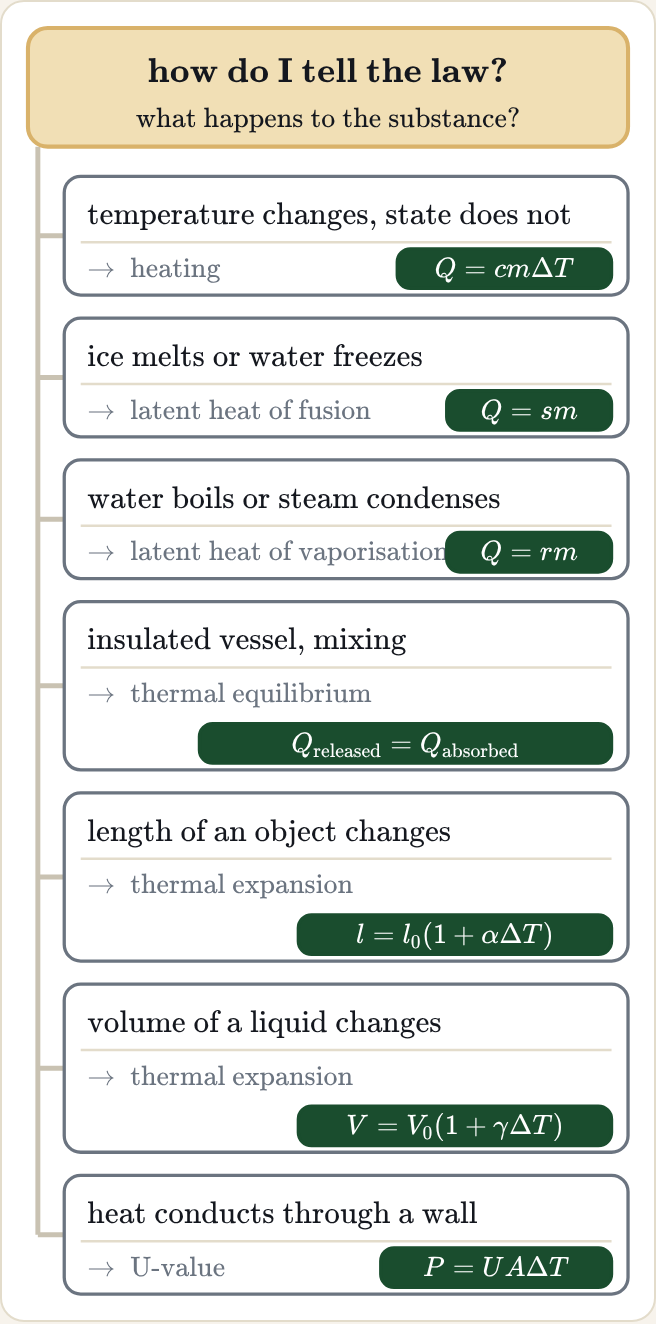
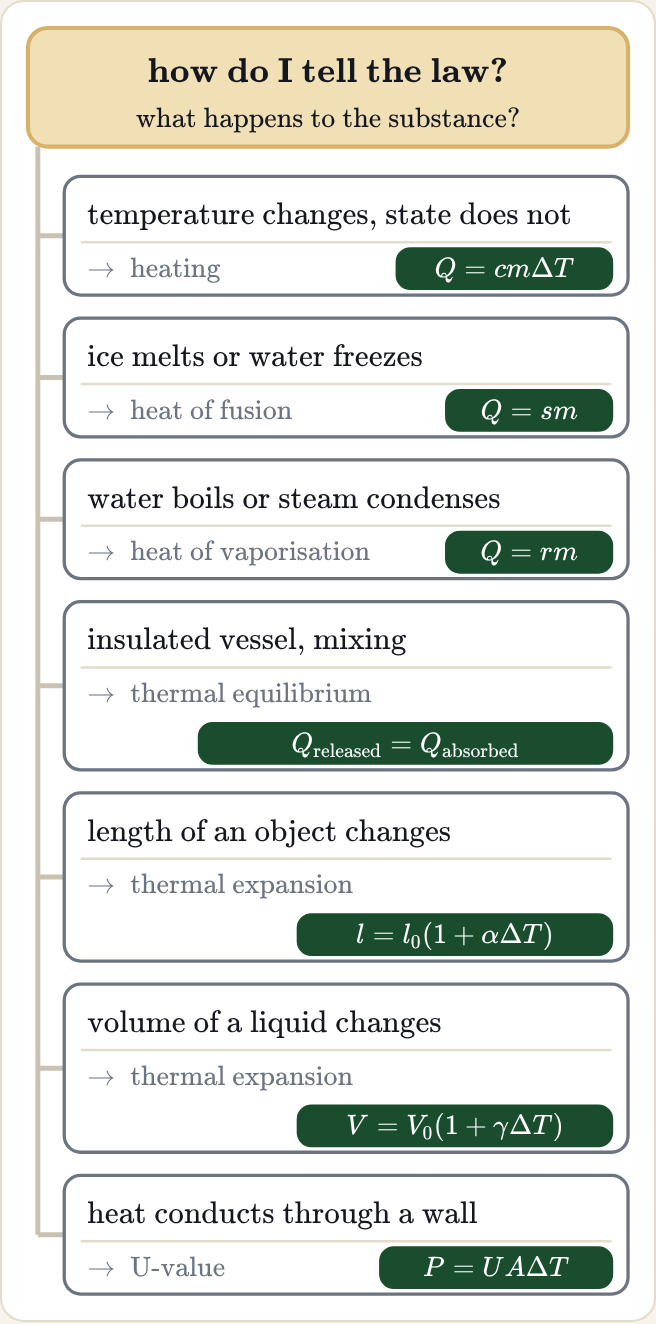
FY9 tunnistuskaaviot: erä A valmis (aallot, energia, kaasut, lampo), C kesken
Claude-Session: https://claude.ai/code/session_018S3zFxhGjNZ7QGsyLUYTSo

Changed region(s): [[0.2134, 0.4026, 0.6707, 0.4335], [0.2134, 0.2787, 0.4268, 0.3406], [0.4573, 0.3097, 0.5488, 0.3406]]

diff --git a/fysiikkalabra/content/en/units/fy9-lampo/unit.md b/fysiikkalabra/content/en/units/fy9-lampo/unit.md
@@ -112,7 +112,7 @@ In thermal physics three concepts must be kept apart. **Temperature** describes 
 
 Every problem of the lesson comes back to conservation of energy. Heat transferred to a substance either raises its temperature or changes its state, and as the temperature rises the substance also expands. In an isolated system the heat released by the hot part equals the heat received by the cold part. The temperature of a house stays constant when the power coming in equals the power going out.
 
-<svg data-fig="kartta" viewBox="0 0 380 784" role="img" aria-label="Recognition chart: how do I tell which law to use? Ask what happens to the substance and see which sign in the task fits. Temperature changes, state does not: heating, the quantity of heat is specific heat capacity times mass times the change of temperature. Ice melts or water freezes: latent heat of fusion, the quantity of heat is the specific latent heat of fusion times mass. Water boils or steam condenses: latent heat of vaporisation, the quantity of heat is the specific latent heat of vaporisation times mass. Insulated vessel, mixing: thermal equilibrium, the heat released equals the heat absorbed. The length of an object changes: thermal expansion, the length is the original length times one plus the coefficient of linear expansion times the change of temperature. The volume of a liquid changes: thermal expansion, the volume is the original volume times one plus the coefficient of volume expansion times the change of temperature. Heat conducts through a wall: the U-value, the power is the U-value times the area times the temperature difference." style="max-width:100%;font-size:21px">
+<svg data-fig="kartta" viewBox="0 0 380 784" role="img" aria-label="Recognition chart: how do I tell which law to use? Ask what happens to the substance and see which sign in the task fits. Temperature changes, state does not: heating, the quantity of heat is specific heat capacity times mass times the change of temperature. Ice melts or water freezes: heat of fusion, the quantity of heat is the specific heat of fusion times mass. Water boils or steam condenses: heat of vaporisation, the quantity of heat is the specific heat of vaporisation times mass. Insulated vessel, mixing: thermal equilibrium, the heat released equals the heat absorbed. The length of an object changes: thermal expansion, the length is the original length times one plus the coefficient of linear expansion times the change of temperature. The volume of a liquid changes: thermal expansion, the volume is the original volume times one plus the coefficient of volume expansion times the change of temperature. Heat conducts through a wall: the U-value, the power is the U-value times the area times the temperature difference." style="max-width:100%;font-size:21px">
   <line x1="14" y1="80" x2="14" y2="740" stroke="#c9c2b2" stroke-width="3" stroke-linecap="butt"/>
   <rect x="8" y="8" width="364" height="72" rx="12" fill="#f1dfb5" stroke="#d9b26a" stroke-width="2.5"/>
   <foreignObject x="25" y="21.5" width="330" height="25" overflow="visible"><div xmlns="http://www.w3.org/1999/xhtml" class="fig-tex" style="display:flex;align-items:center;justify-content:center;height:100%;font-size:21px">$\textbf{how do I tell the law?}$</div></foreignObject>
@@ -128,14 +128,14 @@ Every problem of the lesson comes back to conservation of energy. Heat transferr
   <rect x="30" y="184" width="342" height="72" rx="10" fill="#ffffff" stroke="#6b7480" stroke-width="2"/>
   <foreignObject x="44" y="194.5" width="314" height="23" overflow="visible"><div xmlns="http://www.w3.org/1999/xhtml" class="fig-tex" style="display:flex;align-items:center;justify-content:flex-start;height:100%;font-size:19px">$\text{ice melts or water freezes}$</div></foreignObject>
   <line x1="40" y1="224" x2="362" y2="224" stroke="#e3dccb" stroke-width="1.5" stroke-linecap="butt"/>
-  <foreignObject x="44" y="229" width="206" height="20" overflow="visible"><div xmlns="http://www.w3.org/1999/xhtml" class="fig-tex" style="display:flex;align-items:center;justify-content:flex-start;height:100%;font-size:17px;color:#6b7480">$\to\ \text{latent heat of fusion}$</div></foreignObject>
+  <foreignObject x="44" y="229" width="206" height="20" overflow="visible"><div xmlns="http://www.w3.org/1999/xhtml" class="fig-tex" style="display:flex;align-items:center;justify-content:flex-start;height:100%;font-size:17px;color:#6b7480">$\to\ \text{heat of fusion}$</div></foreignObject>
   <rect x="262" y="228" width="100" height="24" rx="8" fill="#1a4d2e" stroke="#1a4d2e" stroke-width="2"/>
   <foreignObject x="266" y="230" width="92" height="20" overflow="visible"><div xmlns="http://www.w3.org/1999/xhtml" class="fig-tex" style="display:flex;align-items:center;justify-content:center;height:100%;font-size:17px;color:#ffffff">$Q = sm$</div></foreignObject>
   <line x1="14" y1="306" x2="30" y2="306" stroke="#c9c2b2" stroke-width="3" stroke-linecap="butt"/>
   <rect x="30" y="270" width="342" height="72" rx="10" fill="#ffffff" stroke="#6b7480" stroke-width="2"/>
   <foreignObject x="44" y="280.5" width="314" height="23" overflow="visible"><div xmlns="http://www.w3.org/1999/xhtml" class="fig-tex" style="display:flex;align-items:center;justify-content:flex-start;height:100%;font-size:19px">$\text{water boils or steam condenses}$</div></foreignObject>
   <line x1="40" y1="310" x2="362" y2="310" stroke="#e3dccb" stroke-width="1.5" stroke-linecap="butt"/>
-  <foreignObject x="44" y="315" width="206" height="20" overflow="visible"><div xmlns="http://www.w3.org/1999/xhtml" class="fig-tex" style="display:flex;align-items:center;justify-content:flex-start;height:100%;font-size:17px;color:#6b7480">$\to\ \text{latent heat of vaporisation}$</div></foreignObject>
+  <foreignObject x="44" y="315" width="206" height="20" overflow="visible"><div xmlns="http://www.w3.org/1999/xhtml" class="fig-tex" style="display:flex;align-items:center;justify-content:flex-start;height:100%;font-size:17px;color:#6b7480">$\to\ \text{heat of vaporisation}$</div></foreignObject>
   <rect x="262" y="314" width="100" height="24" rx="8" fill="#1a4d2e" stroke="#1a4d2e" stroke-width="2"/>
   <foreignObject x="266" y="316" width="92" height="20" overflow="visible"><div xmlns="http://www.w3.org/1999/xhtml" class="fig-tex" style="display:flex;align-items:center;justify-content:center;height:100%;font-size:17px;color:#ffffff">$Q = rm$</div></foreignObject>
   <line x1="14" y1="407" x2="30" y2="407" stroke="#c9c2b2" stroke-width="3" stroke-linecap="butt"/>

diff --git a/fysiikkalabra/content/en/units/fy9-mittaaminen/sovella/solutions.md b/fysiikkalabra/content/en/units/fy9-mittaaminen/sovella/solutions.md
@@ -422,7 +422,7 @@ Repetition reduces the effect of random error in the mean, because readings that
   <line x1="433.5" y1="97.5" x2="433.5" y2="88.5" stroke="#1971c2" stroke-width="2.5" stroke-linecap="butt"/>
   <circle cx="433.5" cy="93" r="6.5" fill="#1971c2" stroke="#ffffff" stroke-width="2"/>
   <circle cx="258.5" cy="162" r="6.5" fill="#ffffff" stroke="#c92a2a" stroke-width="2.5"/>
-  <foreignObject x="158.5" y="130" width="86" height="36" overflow="visible"><div xmlns="http://www.w3.org/1999/xhtml" class="fig-tex" style="display:flex;align-items:center;justify-content:flex-end;height:100%;font-size:30px;color:#c92a2a">$\text{check}$</div></foreignObject>
+  <foreignObject x="127.5" y="130" width="117" height="36" overflow="visible"><div xmlns="http://www.w3.org/1999/xhtml" class="fig-tex" style="display:flex;align-items:center;justify-content:flex-end;height:100%;font-size:30px;color:#c92a2a">$\text{check it}$</div></foreignObject>
   <circle cx="84" cy="306" r="12" fill="none" stroke="#1f2933" stroke-width="1.5"/>
   <circle cx="433.5" cy="91.5" r="12" fill="none" stroke="#1f2933" stroke-width="1.5"/>
   <foreignObject x="258.5" y="274.5" width="164" height="36" overflow="visible"><div xmlns="http://www.w3.org/1999/xhtml" class="fig-tex" style="display:flex;align-items:center;justify-content:flex-start;height:100%;font-size:30px">$v = k \approx 0.48\,\tfrac{\text{m}}{\text{s}}$</div></foreignObject>
